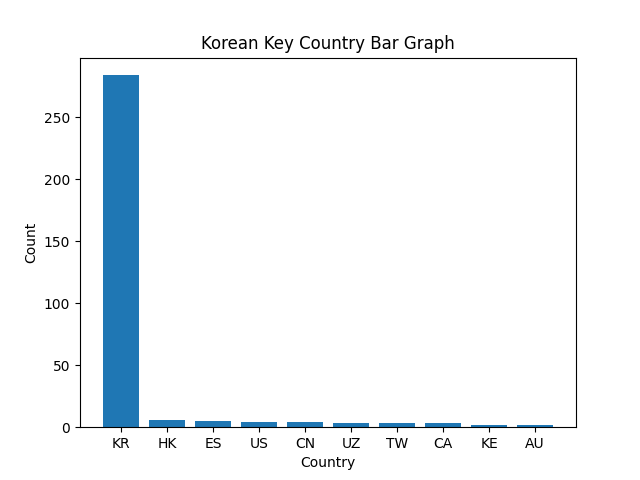
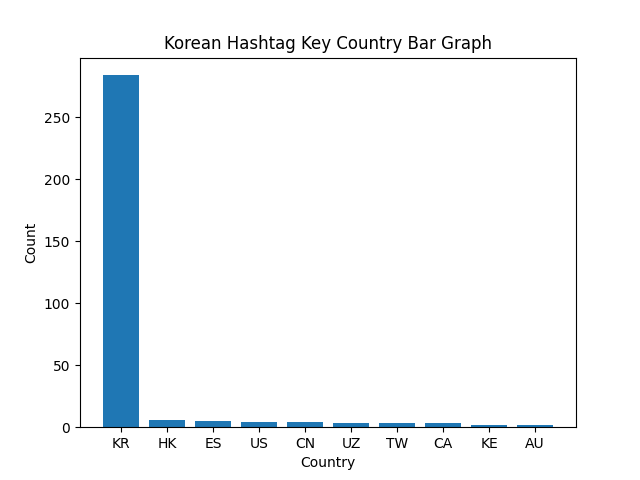
updated plots

Changed region(s): [[0.25, 0.0625, 0.7812, 0.125]]

diff --git a/src/visualize.py b/src/visualize.py
@@ -38,7 +38,7 @@ for i in range(10):
     y.append(items[i][1])
 
 plt.bar(x,y)
-plt.xlabel('Lang')
+plt.xlabel('Country')
 plt.ylabel('Count')
-plt.title(f'#Coronavirus Key Language Bar Graph')
-plt.savefig(f'plots/{args.key}_lang_bar_graph.png')
+plt.title(f'Korean Hashtag Key Country Bar Graph')
+plt.savefig(f'plots/{args.key}_country_bar_graph.png')
